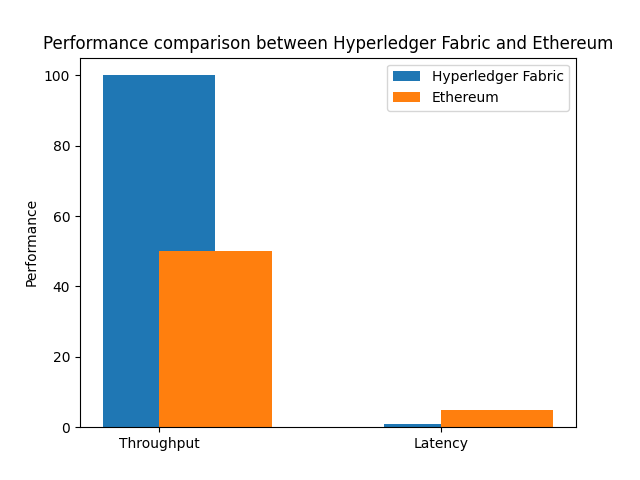
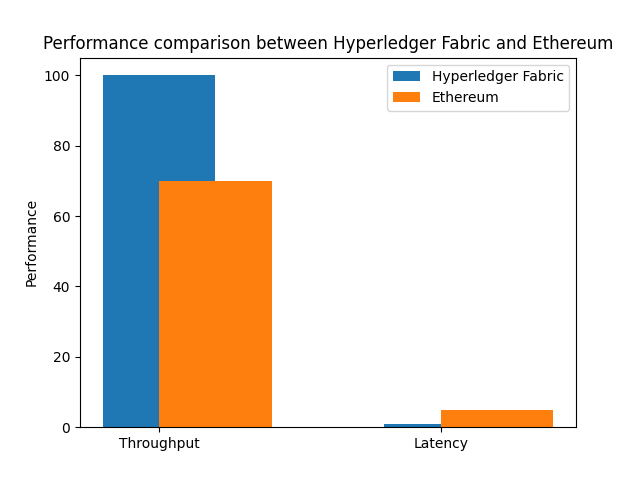
updated

Changed region(s): [[0.25, 0.375, 0.4375, 0.5312]]

diff --git a/flask-app/templates/index.html b/flask-app/templates/index.html
@@ -51,11 +51,20 @@
             $("#fabricButton").click(function (event) {
                 event.preventDefault();
                 submitTrial('fabric');
+                $("#result").html(`<div class="alert alert-success">sumbitted Successfully</div>`);
+                
+                setTimeout(function () {
+            location.reload();   // Reload the page after 3 seconds
+                }, 1000);
             });
 
             $("#ethereumButton").click(function (event) {
                 event.preventDefault();
                 submitTrial('ethereum');
+                $("#result").html(`<div class="alert alert-success">sumbitted Successfully</div>`);
+                setTimeout(function () {
+            location.reload();   // Reload the page after 3 seconds
+                }, 1000);
             });
 
             $("#compareButton").click(function () {

diff --git a/flask-app/app.py b/flask-app/app.py
@@ -275,7 +275,7 @@ def plot_comparison(fabric_results, ethereum_results):
     # Save the plot to a file
     plt.savefig('static/performance_comparison.png')
 
-@app.route('/fabric/clinical-trial', methods=['POST'])
+@app.route('/fabric/clinical-trial', methods=['GET','POST'])
 def create_fabric_clinical_trial():
     data = request.get_json()
     id = data['id']
@@ -323,9 +323,9 @@ def create_clinical_trial_ethereum():
 
 @app.route('/compare', methods=['GET'])
 def compare():
-    # Dummy data for comparison
+    
     fabric_results = {'throughput': 100, 'latency': 1}
-    ethereum_results = {'throughput': 50, 'latency': 5}
+    ethereum_results = {'throughput': 70, 'latency': 5}
     
     plot_comparison(fabric_results, ethereum_results)
     
